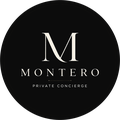
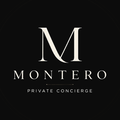
Знак квадратный с подписью Private Concierge; золотые кольца сняты с кнопок связи

diff --git a/index.html b/index.html
@@ -8,7 +8,7 @@
 <link rel="preconnect" href="https://fonts.googleapis.com">
 <link rel="preconnect" href="https://fonts.gstatic.com" crossorigin>
 <link rel="stylesheet" href="https://fonts.googleapis.com/css2?family=Libertinus+Serif:ital,wght@0,400;0,600;0,700;1,400&family=Cormorant+Garamond:ital,wght@0,300;0,400;0,500;0,600;1,300;1,400&family=Cinzel:wght@400;500;600&family=Barlow:wght@300;400;500;600&family=Commissioner:wght@300;400;500;600&display=swap">
-<link rel="stylesheet" href="assets/css/style.css?v=efb43170">
+<link rel="stylesheet" href="assets/css/style.css?v=775d6187">
 </head>
 <body>
 
@@ -18,8 +18,8 @@
 <header class="nav" id="nav">
   <div class="nav-in">
     <a class="brand" href="#home" data-scroll aria-label="На главную" data-i18n-aria="aria.home">
-      <img class="brand-mark" src="assets/img/mark-128.png?v=917bc0fc"
-           srcset="assets/img/mark-88.png?v=739af629 88w, assets/img/mark-108.png?v=0bb8111d 108w, assets/img/mark-128.png?v=917bc0fc 128w, assets/img/mark-160.png?v=f9b4a217 160w, assets/img/mark-200.png?v=ae12b83c 200w, assets/img/mark-260.png?v=4693b511 260w, assets/img/mark-360.png?v=1f16783f 360w"
+      <img class="brand-mark" src="assets/img/mark-128.png?v=6a82bade"
+           srcset="assets/img/mark-88.png?v=86f1b684 88w, assets/img/mark-108.png?v=5284364e 108w, assets/img/mark-128.png?v=6a82bade 128w, assets/img/mark-160.png?v=7823952c 160w, assets/img/mark-200.png?v=3133f19a 200w, assets/img/mark-260.png?v=659b82dd 260w, assets/img/mark-360.png?v=ca3db383 360w"
            sizes="(max-width:540px) 48px, 54px"
            alt="Montero Private Concierge" width="512" height="512" decoding="async">
     </a>
@@ -651,8 +651,8 @@
         <p data-i18n="conc.p3">Конфиденциально. Персонально. Без лишних звонков, переписок и потери времени.</p>
         <p class="conc-start" data-i18n-html="conc.p4"><b>Всё начинается с одного сообщения.</b><br>Расскажите, что вам нужно. Даже если вы пока не знаете, кто именно может решить ваш вопрос, — это уже наша задача.</p>
         <div class="conc-sig">
-          <img class="seal-lg" src="assets/img/seal-160.png?v=1167650a"
-           srcset="assets/img/seal-88.png?v=bcbe78b2 88w, assets/img/seal-120.png?v=2f0aab04 120w, assets/img/seal-160.png?v=1167650a 160w, assets/img/seal-200.png?v=ed88a4c5 200w, assets/img/seal-260.png?v=b1dbc948 260w, assets/img/seal-360.png?v=ea6c1cb3 360w, assets/img/seal-512.png?v=6f2fe600 512w"
+          <img class="seal-lg" src="assets/img/seal-160.png?v=7823952c"
+           srcset="assets/img/seal-88.png?v=86f1b684 88w, assets/img/seal-120.png?v=c7e49a64 120w, assets/img/seal-160.png?v=7823952c 160w, assets/img/seal-200.png?v=3133f19a 200w, assets/img/seal-260.png?v=659b82dd 260w, assets/img/seal-360.png?v=ca3db383 360w, assets/img/seal-512.png?v=ded94e57 512w"
            sizes="84px"
            alt="" width="512" height="512" decoding="async">
           <span class="conc-sig-t"><b data-i18n-html="conc.signName"><span class="sl">№1 консьерж-сервис от Северной</span> <span class="sl">до Южной Америки</span></b></span>
@@ -735,8 +735,8 @@
 <footer class="foot">
   <div class="shell foot-in">
     <div class="foot-brand">
-      <img class="seal" src="assets/img/seal-160.png?v=1167650a"
-           srcset="assets/img/seal-88.png?v=bcbe78b2 88w, assets/img/seal-120.png?v=2f0aab04 120w, assets/img/seal-160.png?v=1167650a 160w, assets/img/seal-200.png?v=ed88a4c5 200w, assets/img/seal-260.png?v=b1dbc948 260w, assets/img/seal-360.png?v=ea6c1cb3 360w, assets/img/seal-512.png?v=6f2fe600 512w"
+      <img class="seal" src="assets/img/seal-160.png?v=7823952c"
+           srcset="assets/img/seal-88.png?v=86f1b684 88w, assets/img/seal-120.png?v=c7e49a64 120w, assets/img/seal-160.png?v=7823952c 160w, assets/img/seal-200.png?v=3133f19a 200w, assets/img/seal-260.png?v=659b82dd 260w, assets/img/seal-360.png?v=ca3db383 360w, assets/img/seal-512.png?v=ded94e57 512w"
            sizes="44px"
            alt="" width="512" height="512" decoding="async">
       <span data-i18n-html="foot.brand">Время <em>—</em> высшая форма роскоши, о которой мы позаботимся</span>
@@ -753,8 +753,8 @@
 <!-- ════════ ВЫБОР ЯЗЫКА ════════ -->
 <div class="lang-gate" id="langGate" role="dialog" aria-modal="true" aria-labelledby="langTitle" hidden>
   <div class="lang-in">
-    <img class="lang-seal" src="assets/img/seal-160.png?v=1167650a"
-           srcset="assets/img/seal-88.png?v=bcbe78b2 88w, assets/img/seal-120.png?v=2f0aab04 120w, assets/img/seal-160.png?v=1167650a 160w, assets/img/seal-200.png?v=ed88a4c5 200w, assets/img/seal-260.png?v=b1dbc948 260w, assets/img/seal-360.png?v=ea6c1cb3 360w, assets/img/seal-512.png?v=6f2fe600 512w"
+    <img class="lang-seal" src="assets/img/seal-160.png?v=7823952c"
+           srcset="assets/img/seal-88.png?v=86f1b684 88w, assets/img/seal-120.png?v=c7e49a64 120w, assets/img/seal-160.png?v=7823952c 160w, assets/img/seal-200.png?v=3133f19a 200w, assets/img/seal-260.png?v=659b82dd 260w, assets/img/seal-360.png?v=ca3db383 360w, assets/img/seal-512.png?v=ded94e57 512w"
            sizes="62px"
            alt="" width="512" height="512" decoding="async">
     <h2 id="langTitle" data-i18n="lang.title">Выберите язык</h2>

diff --git a/assets/css/style.css b/assets/css/style.css
@@ -1051,24 +1051,17 @@ h4{ font-size:clamp(19px,2vw,24px); letter-spacing:0; }
   flex:1 1 0; min-width:0; max-width:190px;
   height:54px; border-radius:999px;
   display:grid; place-items:center; color:#FFFFFF;
-  background:
-    linear-gradient(#0C0C0D, #0C0C0D) padding-box,
-    linear-gradient(150deg, #E6CE93 0%, #C39A46 26%, #A78239 52%,
-                            #DEBE75 74%, #A78239 100%) border-box;
-  border:2px solid transparent;
-  box-shadow:
-    inset 0 0 0 3px #0C0C0D,
-    inset 0 0 0 4px rgba(199,155,72,.65),
-    0 8px 22px rgba(0,0,0,.45);
-  transition:transform .4s var(--ease), box-shadow .4s var(--ease);
+  /* Кольца сняты вслед за знаком и плавающей кнопкой: осталась
+     чёрная эмаль, волосяной пергаментный кант и тень.          */
+  background:#0C0C0D;
+  border:1px solid rgba(232,225,209,.22);
+  box-shadow:0 8px 22px rgba(0,0,0,.45);
+  transition:transform .4s var(--ease), border-color .4s var(--ease), box-shadow .4s var(--ease);
 }
 .direct-btn:hover{
   transform:translateY(-2px);
-  box-shadow:
-    inset 0 0 0 3px #0C0C0D,
-    inset 0 0 0 4px rgba(222,190,117,.95),
-    0 10px 26px rgba(0,0,0,.5),
-    0 0 18px rgba(214,160,74,.35);
+  border-color:rgba(232,225,209,.5);
+  box-shadow:0 10px 26px rgba(0,0,0,.5);
 }
 
 /* ── Форма ─────────────────────────────────────────────────────────── */
@@ -1382,29 +1375,18 @@ h4{ font-size:clamp(19px,2vw,24px); letter-spacing:0; }
   z-index:850; width:52px; height:52px; border-radius:50%;
   display:grid; place-items:center;
   color:#FFFFFF;
-  /* Кнопка повторяет знак: чёрная эмаль, толстое золотое кольцо по
-     краю и тонкая золотая линия внутри. Кольцо набрано градиентом
-     через border-box, иначе плоская заливка читается как жёлтая
-     обводка, а не как металл.                                   */
-  background:
-    linear-gradient(#0C0C0D, #0C0C0D) padding-box,
-    linear-gradient(150deg, #E6CE93 0%, #C39A46 26%, #A78239 52%,
-                            #DEBE75 74%, #A78239 100%) border-box;
-  border:2px solid transparent;
-  box-shadow:
-    inset 0 0 0 3px #0C0C0D,
-    inset 0 0 0 4px rgba(199,155,72,.65),
-    0 12px 34px rgba(0,0,0,.55);
+  /* Кнопка повторяет знак: чёрная эмаль без золота. Кольца сняты,
+     остался волосяной пергаментный кант — только чтобы кнопка не
+     растворилась в тёмном низу страницы — и тень под ней.       */
+  background:#0C0C0D;
+  border:1px solid rgba(232,225,209,.22);
+  box-shadow:0 12px 34px rgba(0,0,0,.55);
   opacity:0; transform:translateY(14px) scale(.9); pointer-events:none;
   transition:opacity .45s var(--ease), transform .45s var(--ease), background-color .3s;
 }
 .float-wa.on{ opacity:1; transform:none; pointer-events:auto; }
-/* При наведении подсвечиваем кольцо, а не заливаем кнопку. */
-.float-wa:hover{ box-shadow:
-    inset 0 0 0 3px #0C0C0D,
-    inset 0 0 0 4px rgba(222,190,117,.95),
-    0 12px 34px rgba(0,0,0,.55),
-    0 0 18px rgba(214,160,74,.35); }
+/* При наведении подсвечиваем кант, а не заливаем кнопку. */
+.float-wa:hover{ border-color:rgba(232,225,209,.5); }
 
 /* ══════════ ПОЯВЛЕНИЕ ══════════ */
 
